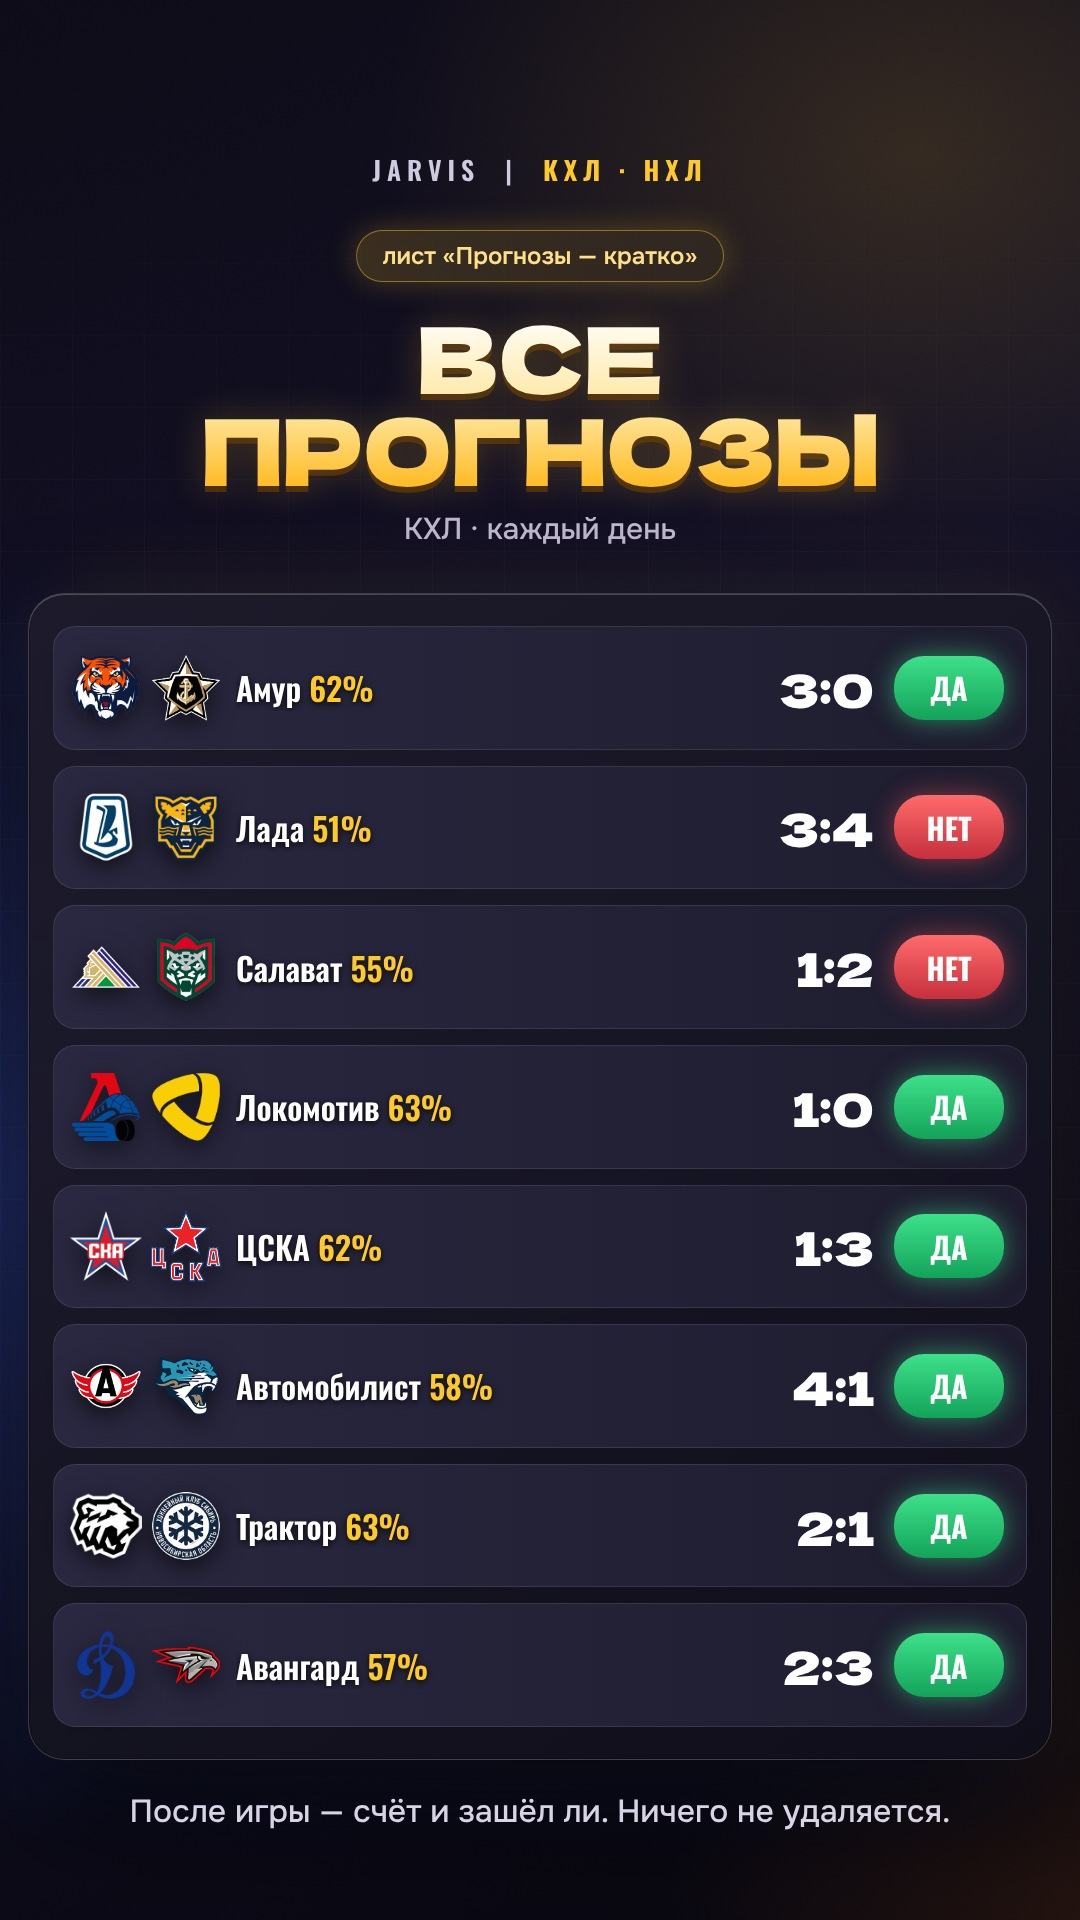
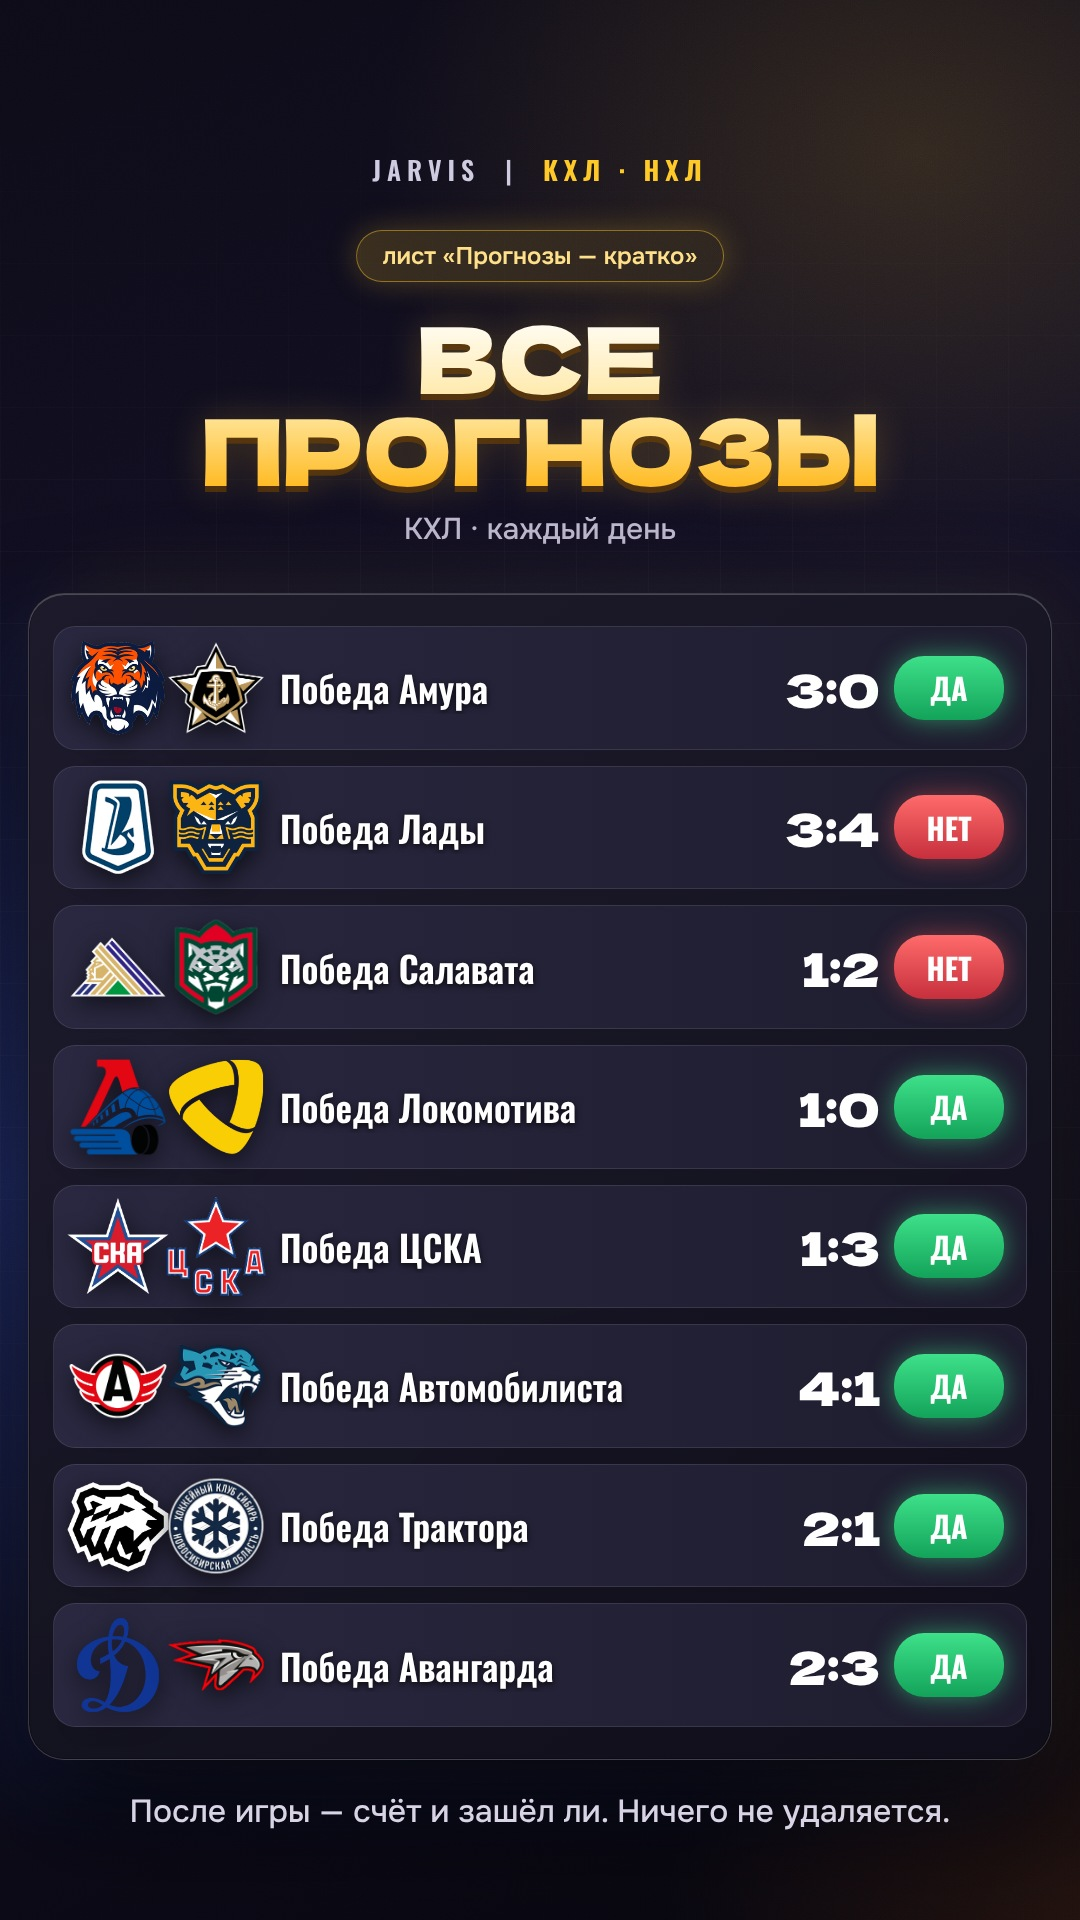
Хайлайт «Таблица» v6: ярче плашки и ячейки, ставки в прогнозах, кадр НХЛ

diff --git a/team/out/2026-10-27/shot.js b/team/out/2026-10-27/shot.js
@@ -1,5 +1,5 @@
 const {chromium}=require('playwright');(async()=>{const b=await chromium.launch();const p=await b.newPage({viewport:{width:1080,height:1920}});
-for(let i=1;i<=7;i++){await p.goto('file://'+process.argv[2]+'/table_'+i+'.html');await p.waitForTimeout(400);
+for(let i=1;i<=8;i++){await p.goto('file://'+process.argv[2]+'/table_'+i+'.html');await p.waitForTimeout(400);
 await p.evaluate(()=>{const st=document.querySelector('.stage');const cap=document.querySelector('.cap');const card=st.querySelector('.card');
  const hasCap=cap&&cap.textContent.trim();const top=document.querySelector('.t').getBoundingClientRect().bottom+45;const bottom=hasCap?1760:1850;
  st.style.top=top+'px';
